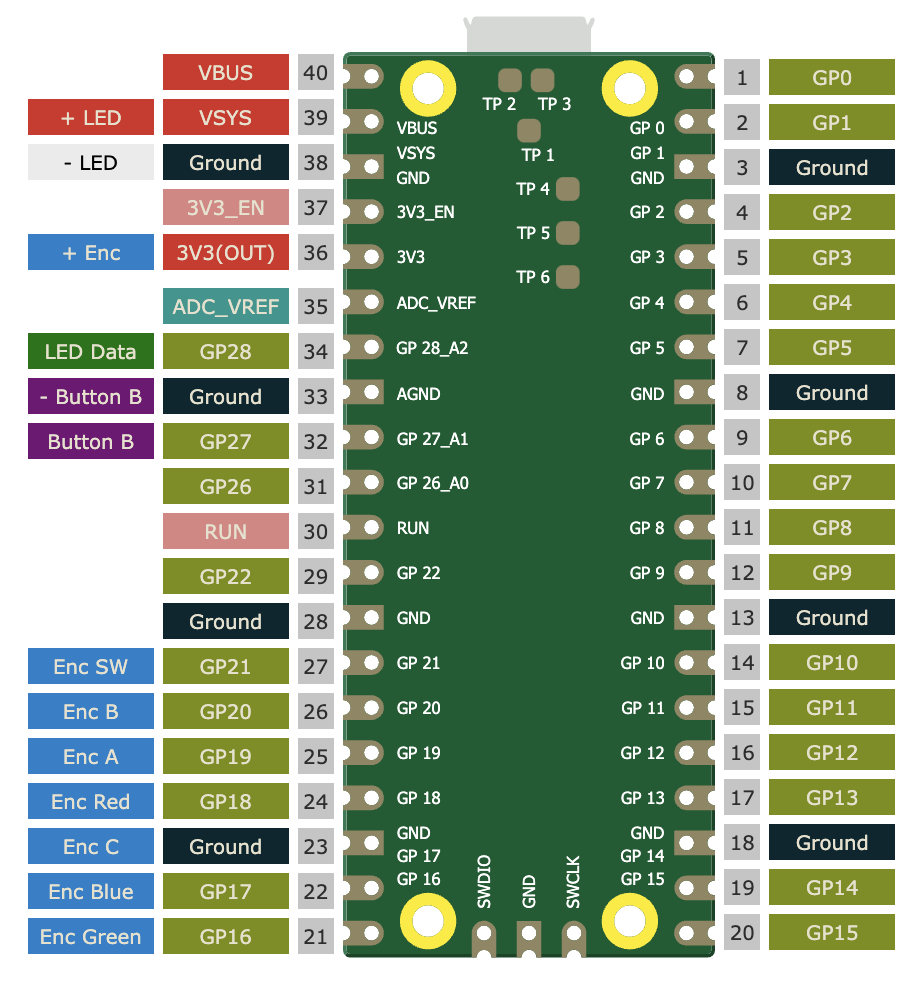
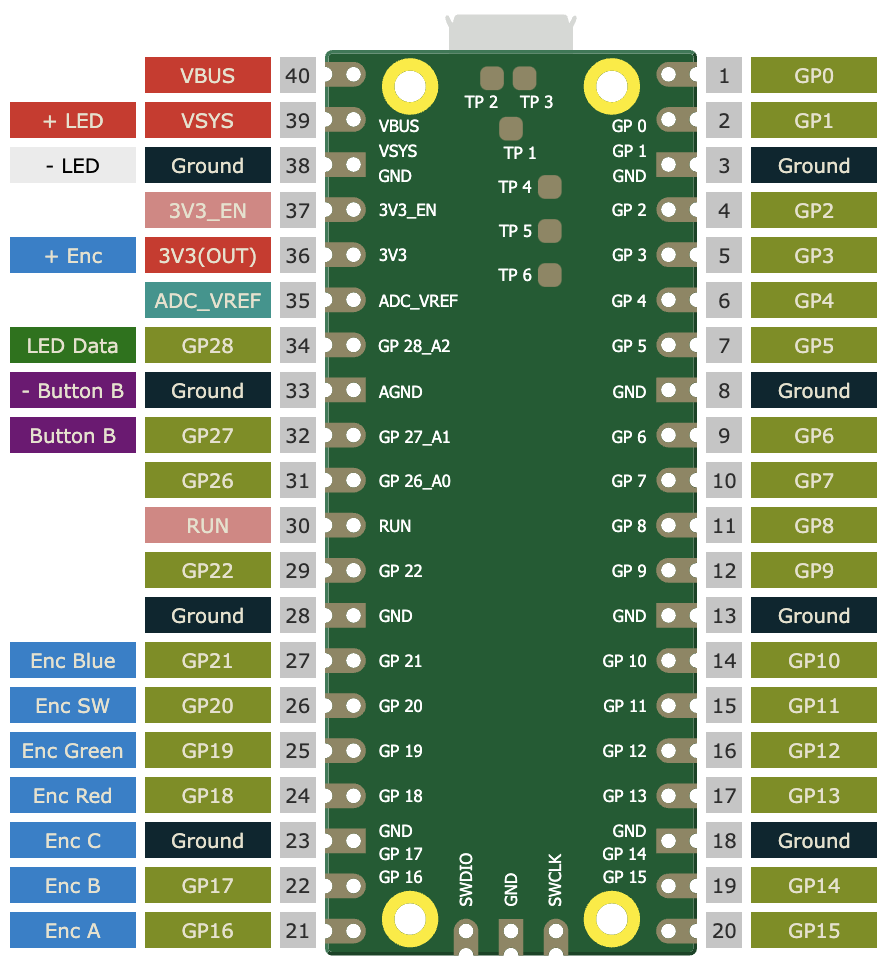
Update pinout for a more civilized layout

diff --git a/doc/_pinout.html b/doc/_pinout.html
@@ -1,0 +1,64 @@
+<!-- this is from pico.pinout.xyz and meant to generate updated pinouts later on. -->
+<article class="pinout hidden-spi hidden-uart hidden-adc hidden-pwm" id="pinout">
+    <table aria-label="Left-hand pins" class="labels left" aria-rowcount="20" cellpadding="0" cellspacing="5">
+        <tbody><tr aria-label="First pin."><td class="gpio">GP0</td> <td class="spi hidden" title="SPI 0: Host-receive">SPI0 RX</td> <td class="i2c" title="I2C 0: Data">I2C0 SDA</td> <td class="uart default hidden" title="UART 0: Transmit">UART0 TX</td> <td class="pwm hidden advanced" title="PWM 0: Channel A">PWM0 A</td></tr>
+        <tr aria-label="Second pin."><td class="gpio">GP1</td> <td class="spi hidden" title="SPI 0: Chip-select">SPI0 CSn</td> <td class="i2c" title="I2C 0: Clock">I2C0 SCL</td> <td class="uart default hidden" title="UART 0: Receive">UART0 RX</td> <td class="pwm hidden advanced" title="PWM 0: Channel B">PWM0 B</td></tr>
+        <tr aria-label="Third pin."><td class="ground" title="Ground">Ground</td></tr>
+        <tr aria-label="Forth pin."><td class="gpio">GP2</td> <td class="spi hidden" title="SPI 0: Clock">SPI0 SCK</td> <td class="i2c" title="I2C 1: Data">I2C1 SDA</td> <td class="uart hidden advanced" title="UART 0: Clear to send">UART0 CTS</td> <td class="pwm hidden advanced" title="PWM 1: Channel A">PWM1 A</td></tr>
+        <tr aria-label="Fifth pin."><td class="gpio">GP3</td> <td class="spi hidden" title="SPI 0: Host-transmit">SPI0 TX</td> <td class="i2c" title="I2C 1: Clock">I2C1 SCL</td> <td class="uart hidden advanced" title="UART 0: Request to send">UART0 RTS</td> <td class="pwm hidden advanced" title="PWM 1: Channel B">PWM1 B</td></tr>
+        <tr aria-label="Sixth pin."><td class="gpio">GP4</td> <td class="spi hidden" title="SPI 0: Host-receive">SPI0 RX</td> <td class="i2c" title="I2C 0: Data">I2C0 SDA</td> <td class="uart hidden" title="UART 1: Transmit">UART1 TX</td> <td class="pwm hidden advanced" title="PWM 2: Channel A">PWM2 A</td></tr>
+        <tr aria-label="Seventh pin."><td class="gpio">GP5</td> <td class="spi hidden" title="SPI 0: Chip-select">SPI0 CSn</td> <td class="i2c" title="I2C 0: Clock">I2C0 SCL</td> <td class="uart hidden" title="UART 1: Receive">UART1 RX</td> <td class="pwm hidden advanced" title="PWM 2: Channel B">PWM2 B</td></tr>
+        <tr aria-label="Eighth pin."><td class="ground" title="Ground">Ground</td></tr>
+        <tr aria-label="Ninth pin."><td class="gpio">GP6</td> <td class="spi hidden" title="SPI 0: Clock">SPI0 SCK</td> <td class="i2c" title="I2C 1: Data">I2C1 SDA</td> <td class="uart hidden advanced" title="UART 1: Clear to send">UART1 CTS</td> <td class="pwm hidden advanced" title="PWM 3: Channel A">PWM3 A</td></tr>
+        <tr aria-label="Tenth pin."><td class="gpio">GP7</td> <td class="spi hidden" title="SPI 1: Host-transmit">SPI0 TX</td> <td class="i2c" title="I2C 1: Clock">I2C1 SCL</td> <td class="uart hidden advanced" title="UART 1: Request to send">UART1 RTS</td> <td class="pwm hidden advanced" title="PWM 3: Channel B">PWM3 B</td></tr>
+        <tr aria-label="Eleventh pin."><td class="gpio">GP8</td> <td class="spi hidden" title="SPI 1: Host-receive">SPI1 RX</td> <td class="i2c" title="I2C 0: Data">I2C0 SDA</td> <td class="uart hidden" title="UART 1: Transmit">UART1 TX</td> <td class="pwm hidden advanced" title="PWM 4: Channel A">PWM4 A</td></tr>
+        <tr aria-label="Twelveth pin."><td class="gpio">GP9</td> <td class="spi hidden" title="SPI 1: Chip-select">SPI1 CSn</td> <td class="i2c" title="I2C 0: Clock">I2C0 SCL</td> <td class="uart hidden" title="UART 1: Receive">UART1 RX</td> <td class="pwm hidden advanced" title="PWM 4: Channel B">PWM4 B</td></tr>
+        <tr aria-label="Thirtheenth pin."><td class="ground" title="Ground">Ground</td></tr>
+        <tr aria-label="Fourteenth pin."><td class="gpio">GP10</td> <td class="spi hidden" title="SPI 1: Clock">SPI1 SCK</td> <td class="i2c" title="I2C 1: Data">I2C1 SDA</td> <td class="uart hidden advanced" title="UART 1: Clear to send">UART1 CTS</td> <td class="pwm hidden advanced" title="PWM 5: Channel A">PWM5 A</td></tr>
+        <tr aria-label="Fifteenth pin."><td class="gpio">GP11</td> <td class="spi hidden" title="SPI 1: Host-transmit">SPI1 TX</td> <td class="i2c" title="I2C 1: Clock">I2C1 SCL</td> <td class="uart hidden advanced" title="UART 1: Request to send">UART1 RTS</td>  <td class="pwm hidden advanced" title="PWM 5: Channel B">PWM5 B</td></tr>
+        <tr aria-label="Sixteenth pin."><td class="gpio">GP12</td> <td class="spi hidden" title="SPI 1: Host-receive">SPI1 RX</td> <td class="i2c" title="I2C 0: Data">I2C0 SDA</td> <td class="uart hidden" title="UART 0: Transmit">UART0 TX</td> <td class="pwm hidden advanced" title="PWM 6: Channel A">PWM6 A</td></tr>
+        <tr aria-label="Seventeenth pin."><td class="gpio">GP13</td> <td class="spi hidden" title="SPI 1: Chip-select">SPI1 CSn</td> <td class="i2c" title="I2C 0: Clock">I2C0 SCL</td> <td class="uart hidden" title="UART 0: Receive">UART0 RX</td> <td class="pwm hidden advanced" title="PWM 6: Channel B">PWM6 B</td></tr>
+        <tr aria-label="Eighteenth pin."><td class="ground" title="Ground">Ground</td></tr>
+        <tr aria-label="Nineteenth pin."><td class="gpio">GP14</td> <td class="spi hidden" title="SPI 1: Clock">SPI1 SCK</td> <td class="i2c" title="I2C 0: Data">I2C1 SDA</td> <td class="uart hidden advanced" title="UART 0: Clear to send">UART0 CTS</td> <td class="pwm hidden advanced" title="PWM 7: Channel A">PWM7 A</td></tr>
+        <tr aria-label="Twentieth pin."><td class="gpio">GP15</td> <td class="spi hidden" title="SPI 1: Host-transmit">SPI1 TX</td> <td class="i2c" title="I2C 0: Clock">I2C1 SCL</td> <td class="uart hidden advanced" title="UART 0: Request to send">UART0 RTS</td> <td class="pwm hidden advanced" title="PWM 7: Channel B">PWM7 B</td></tr>
+        </tbody></table>
+    <div class="pico" id="upside"><img width="207" height="523" alt="Raspberry Pi Pico with the micro USB port facing upwards, standing face-up on its GPIO pins." src="raspberry-pi-pico.svg"></div>
+    <div class="pico" id="underside"><img width="207" height="523" alt="Raspberry Pi Pico with the micro USB port facing downwards, standing bottom-up on its GPIO pins." src="raspberry-pi-pico-underside.svg"></div>
+    <table aria-label="Right-hand pins" class="labels right" aria-rowcount="20" cellpadding="0" cellspacing="5">
+        <tbody><tr aria-label="First pin."><td class="power" title="Power: USB Bus">VBUS</td></tr>
+        <tr aria-label="Second pin."><td class="power" title="Power: System">VSYS</td>
+            <td class="power" title="I2C 0: Data">LED +</td>
+        </tr>
+        <tr aria-label="Third pin."><td class="ground" title="Ground">Ground</td>
+            <td class="ground" title="I2C 0: Data" style="
+    background-color: #eee;
+    color: black;
+">LED -</td>
+        </tr>
+        <tr aria-label="Forth pin."><td class="system" title="System: 3v3 regulator enable">3V3_EN</td></tr>
+        <tr aria-label="Fifth pin."><td class="power" title="Power: 3v3 out">3V3(OUT)</td>
+            <td class="i2c" title="I2C 0: Data">Enc +</td>
+        </tr>
+        <tr aria-label="Sixth pin."> <td class="adc" title="ADC: Voltage-reference">ADC_VREF</td></tr>
+        <tr aria-label="Seventh pin."><td class="gpio">GP28</td> <td class="adc hidden" title="ADC: Channel 2">ADC2</td> <td class="i2c" title="I2C 0: Data" style="background-color:green;">LED Data</td> <td class="uart hidden advanced" title="UART 0: Transmit">UART0 TX</td> <td class="pwm hidden advanced" title="PWM 6: Channel A">PWM6 A</td></tr>
+        <tr aria-label="Eighth pin."><td class="ground" title="Ground">Ground</td> <td class="i2c" title="ADC: Ground" style="
+    background-color: purple;
+">Button B -</td></tr>
+        <tr aria-label="Ninth pin."><td class="gpio">GP27</td> <td class="adc hidden" title="ADC: Channel 1">ADC1</td> <td class="i2c" title="I2C 1: Clock" style="
+    background-color: purple;
+">Button B</td> <td class="uart hidden advanced" title="UART 0: Clear to send">UART1 RTS</td> <td class="pwm hidden advanced" title="PWM 5: Channel B">PWM5 B</td></tr>
+        <tr aria-label="Tenth pin."><td class="gpio">GP26</td> <td class="adc hidden" title="ADC: Channel 0">ADC0</td> <td class="adc hidden" title="I2C 1: Data">I2C1 SDA</td> <td class="uart hidden advanced" title="UART 1: Clear to send">UART1 CTS</td> <td class="pwm hidden advanced" title="PWM 5: Channel A">PWM5 A</td></tr>
+        <tr aria-label="Eleventh pin."><td class="system">RUN</td></tr>
+        <tr aria-label="Twelveth pin."><td class="gpio">GP22</td> <td class="spi hidden advanced" title="SPI 0: Clock">SPI0 SCK</td> <td class="i2c hidden" title="I2C 1: Data">Enc SW</td> <td class="uart hidden advanced" title="UART 1: Clear to send">UART1 CTS</td> <td class="pwm hidden advanced" title="PWM 3: Channel A">PWM3 A</td></tr>
+        <tr aria-label="Thirtheenth pin."><td class="ground" title="Ground">Ground</td>
+
+        </tr>
+        <tr aria-label="Fourteenth pin."><td class="gpio">GP21</td> <td class="spi hidden advanced" title="SPI 0: Chip-select">SPI0 CSn</td> <td class="i2c" title="I2C 0: Clock">Enc Blue</td> <td class="uart hidden advanced" title="UART 1: Receive">UART1 RX</td> <td class="pwm hidden advanced" title="PWM 2: Channel B">PWM2 B</td></tr>
+        <tr aria-label="Fifteenth pin."><td class="gpio">GP20</td> <td class="spi hidden advanced" title="SPI 0: Host-receive">SPI0 RX</td> <td class="i2c" title="I2C 0: Data">Enc SW</td> <td class="uart hidden advanced" title="UART 1: Transmit">UART1 TX</td> <td class="pwm hidden advanced" title="PWM 2: Channel A">PWM2 A</td></tr>
+        <tr aria-label="Sixteenth pin."><td class="gpio">GP19</td> <td class="spi hidden" title="SPI 0: Host-transmit">SPI0 TX</td> <td class="i2c" title="I2C 1: Clock">Enc Green</td> <td class="uart hidden advanced" title="UART 0: Request to send">UART0 TX</td> <td class="pwm hidden advanced" title="PWM 1: Channel B">PWM1 B</td></tr>
+        <tr aria-label="Seventeenth pin."><td class="gpio">GP18</td> <td class="spi hidden" title="SPI 0: Clock">SPI0 SCK</td> <td class="i2c" title="I2C 1: Data">Enc Red</td> <td class="uart hidden advanced" title="UART 0: Clear to send">UART1 RTS</td> <td class="pwm hidden advanced" title="PWM 1: Channel A">PWM1 A</td></tr>
+        <tr aria-label="Eighteenth pin."><td class="ground" title="Ground">Ground</td><td class="i2c" title="I2C 0: Clock">Enc C</td></tr>
+        <tr aria-label="Nineteenth pin."><td class="gpio">GP17</td> <td class="spi hidden" title="SPI 0: Chip-select">SPI0 CSn</td> <td class="i2c" title="I2C 0: Clock">Enc B</td> <td class="uart hidden" title="UART 0: Receive">UART0 RX</td> <td class="pwm hidden advanced" title="PWM 0: Channel B">PWM0 B</td></tr>
+        <tr aria-label="Twentieth pin."><td class="gpio">GP16</td> <td class="spi hidden" title="SPI 0: Host-receive">SPI0 RX</td> <td class="i2c" title="I2C 0: Data">Enc A</td> <td class="uart hidden" title="UART 0: Transmit">UART0 TX</td> <td class="pwm hidden advanced" title="PWM 0: Channel A">PWM0 A</td></tr>
+        </tbody></table>
+</article>

diff --git a/config.h b/config.h
@@ -36,7 +36,7 @@ const LEDControl::state_t DEFAULT_STATE = {
 const float_t MIN_BRIGHTNESS = 0.02f; // below this there's no meaningful output
 const float_t MAX_BRIGHTNESS = 1.0f;
 const float_t MIN_SPEED = 0.01f;
-const float_t MAX_SPEED = 0.5f; // let's be safe and not trigger anyone
+const float_t MAX_SPEED = 0.18f; // let's be safe and not trigger anyone
 
 // How many times the LEDs will be updated per second
 const uint UPDATES = 60;
@@ -48,12 +48,12 @@ const float_t ENC_DEFAULT_BRIGHTNESS = 1.0f;
 const uint LED_DATA_PIN = 28;
 const uint BUTTON_B_PIN = 27;
 
-#define ROT_LEDG 16 // green LED (white cable)
-#define ROT_LEDB 17 // blue LED (brown cable)
-#define ROT_LEDR 18 // red LED (grey cable)
-#define ROT_A 19 // rotary A (green cable?)
-#define ROT_B 20 // rotary B (blue cable?)
-#define ROT_SW 21 // rotary pushbutton (black cable)
+#define ROT_A 16 // rotary A (leftmost pin in rotary)
+#define ROT_B 17 // rotary B (rightmost pin in rotary)
+#define ROT_LEDR 18 // red LED
+#define ROT_LEDG 19 // green LED
+#define ROT_SW 20 // rotary pushbutton
+#define ROT_LEDB 21 // blue LED
 
 #ifndef RASPBERRYPI_PICO_W
 #define LED_PAUSED_PIN PICO_DEFAULT_LED_PIN

diff --git a/README.md b/README.md
@@ -29,10 +29,10 @@ Only a single (right) side of the Pico is used for connections to allow for crea
 
 - WS2812/SK6812 LED strip: Data on GP28. Power with 5V and GND.
 - Rotary Encoder with LED and button: 8 connections, believe or not!
-  - LED connections: Green to GP16, Blue to GP17, Red to GP18
+  - LED connections: Red to GP18, Green to GP19, Blue to GP21
   - LED common anode to 3.3v (Pin 36)
-  - Rotary encoder: A to GP19, B to GP20, C to GND (Pin 23)
-  - SW to GP21
+  - Rotary encoder: A to GP16, B to GP17, C to GND (Pin 23)
+  - SW to GP20
 - Optional: Button "B" to GP27. Connect the other end of the button to any GND pin.
 
 Pinout diagram is [here](./doc/pinout.png) or [from the back](./doc/pinout-back.png) (courtesy of [pinout.xyz](https://pico.pinout.xyz/))
